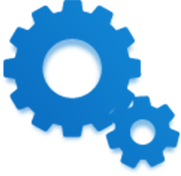
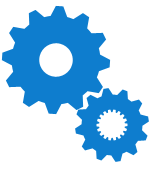
New images for homepage

Changed region(s): [[0.0, 0.0, 1.0, 0.9706]]

diff --git a/css/main.css b/css/main.css
@@ -98,7 +98,7 @@ h5 {
 
 body {
   font-family: "Trebuchet MS", Arial, Helvetica, Verdana, serif, sans-serif;
-  background: #f2f2f2 url('../img/background.jpg?1350258205') left top repeat; }
+  background: #f2f2f2 url('../img/background.jpg?1350336775') left top repeat; }
 
 header {
   background-color: #222;
@@ -254,12 +254,6 @@ header {
       text-align: justify;
       margin: 0;
       font-size: 15px; }
-  #introducing #intro-fast-lightweight img,
-  #js-introducing #intro-fast-lightweight img {
-    margin-top: 30px; }
-  #introducing #intro-customizable img,
-  #js-introducing #intro-customizable img {
-    margin-top: 3px; }
 
 #demo textarea,
 #js-demo textarea {

diff --git a/sass/main.scss b/sass/main.scss
@@ -326,13 +326,6 @@ header {
             font-size: 15px;
         }
     }
-
-    #intro-fast-lightweight img {
-        margin-top: 30px;
-    }
-    #intro-customizable img {
-        margin-top: 3px;
-    }
 }
 
 #demo,
